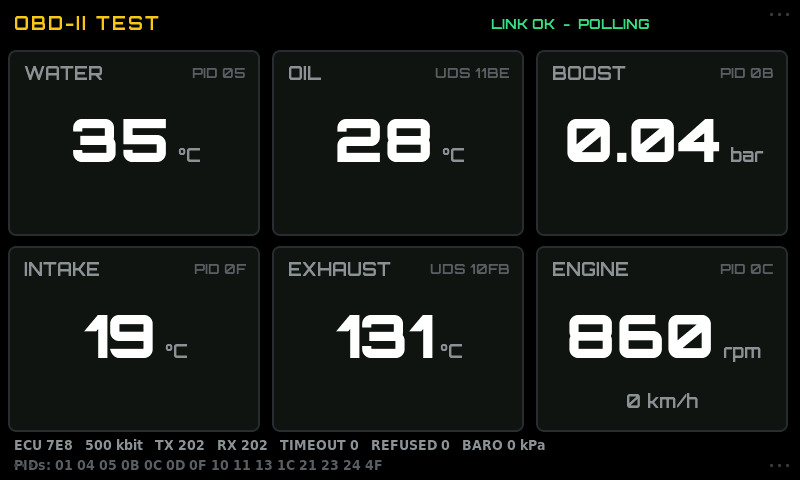
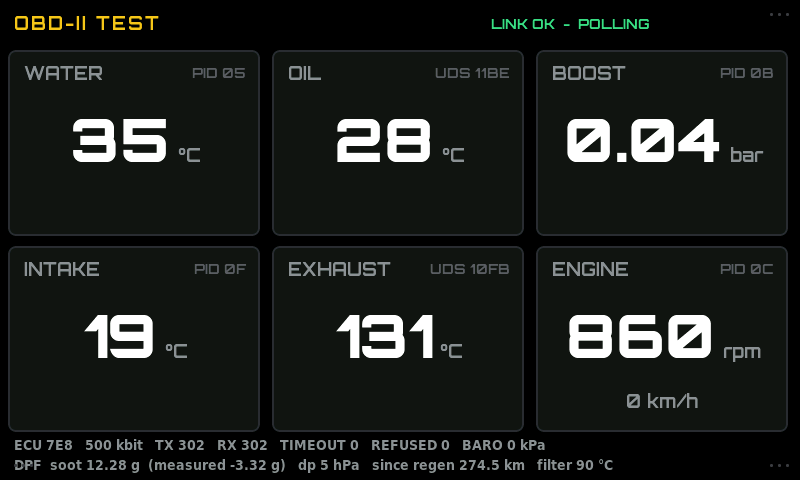
dash: read the T5.1 particulate filter over UDS, v3.6
SNIFF next to VCDS gave the DPF measuring values: 14F5 differential
pressure (hPa), 114F / 114E soot mass calculated / measured (0.01 g),
1156 distance since regeneration (m, 32 bit), 1044 simulated filter
temperature (0.1 K). All matched VCDS. They are polled every 4th round
into g_obd.dpf and shown on the OBD test screen's bottom line.

Claude-Session: https://claude.ai/code/session_018SKN4tJhAPpVCWtvRZgZpD

Changed region(s): [[0.0312, 0.9375, 0.75, 1.0]]

diff --git a/dash/notstock-dash-7inch/main/obd2.c b/dash/notstock-dash-7inch/main/obd2.c
@@ -19,6 +19,7 @@ bool obd_send(uint32_t id, const uint8_t d[8]);
 #define GIVE_UP_TIMEOUTS   6        /* in a row, before NO_ECU */
 #define BARO_EVERY         40       /* baro changes slowly: every 40th poll */
 #define UDS_GIVE_UP        3        /* unanswered UDS reads before REFUSED */
+#define DPF_EVERY          4        /* DPF values: every 4th round */
 
 volatile obd_status_t g_obd;
 
@@ -39,12 +40,23 @@ static const uint16_t WANT[] = {
     UDS(OBD_UDS_EGT),
     0x0D,   /* speed */
     0x33,   /* barometric pressure (only every BARO_EVERY) */
+    UDS(OBD_UDS_DPF_SOOT),      /* the DPF ones only every DPF_EVERY */
+    UDS(OBD_UDS_DPF_DP),
+    UDS(OBD_UDS_DPF_SOOT_MEAS),
+    UDS(OBD_UDS_DPF_DIST),
+    UDS(OBD_UDS_DPF_TEMP),
 };
 
 const uint16_t obd_uds_did[OBD_UDS_N] = {
     [OBD_UDS_OIL] = 0x11BE,
     [OBD_UDS_EGT] = 0x10FB,
+    [OBD_UDS_DPF_DP] = 0x14F5,
+    [OBD_UDS_DPF_SOOT] = 0x114F,
+    [OBD_UDS_DPF_SOOT_MEAS] = 0x114E,
+    [OBD_UDS_DPF_DIST] = 0x1156,
+    [OBD_UDS_DPF_TEMP] = 0x1044,
 };
+/* the mode 01 PID a value stands in for, 0: none, always read over UDS */
 static const uint8_t UDS_PID[OBD_UDS_N] = {
     [OBD_UDS_OIL] = 0x5C,
     [OBD_UDS_EGT] = 0x78,
@@ -80,7 +92,8 @@ bool obd_supported(uint8_t pid)
 
 bool obd_uds_used(int i)
 {
-    return g_obd.state == OBD_POLLING && !obd_supported(UDS_PID[i]) &&
+    return g_obd.state == OBD_POLLING &&
+           (UDS_PID[i] == 0 || !obd_supported(UDS_PID[i])) &&
            g_obd.uds[i] != UDS_REFUSED;
 }
 
@@ -90,6 +103,8 @@ void obd_reset(void)
     memset(&z, 0, sizeof z);
     z.state = OBD_SCANNING;
     for (int i = 0; i < 4; i++) z.egt[i] = NAN;
+    z.dpf.dp_hpa = z.dpf.soot_g = z.dpf.soot_meas_g = NAN;
+    z.dpf.dist_km = z.dpf.temp_c = NAN;
     memcpy((void *)&g_obd, &z, sizeof z);
     s_deadline = 0;
     s_next = 0;
@@ -137,7 +152,11 @@ static void request_uds(uint32_t id, int i, int64_t now)
 
 static bool want_now(uint16_t w)
 {
-    if (w & 0x100) return obd_uds_used(w & 0xFF);
+    if (w & 0x100) {
+        int i = w & 0xFF;
+        if (UDS_PID[i] == 0 && s_polls % DPF_EVERY) return false;
+        return obd_uds_used(i);
+    }
     uint8_t pid = (uint8_t)w;
     if (!obd_supported(pid)) return false;
     if (pid == 0x0B && obd_supported(0x87)) return false;
@@ -167,9 +186,23 @@ static void answer_uds(const uint8_t *d, int n, int64_t now)
     uint16_t did = (uint16_t)(d[1] << 8 | d[2]);
     for (int i = 0; i < OBD_UDS_N; i++) {
         if (did != obd_uds_did[i]) continue;
-        float c = ((d[3] << 8) | d[4]) / 10.0f - 273.15f;   /* 0.1 K */
-        if (i == OBD_UDS_OIL) g_dash.oilt = c;
-        else                  g_dash.egt = c;
+        uint16_t u = (uint16_t)((d[3] << 8) | d[4]);
+        float kelvin = u / 10.0f - 273.15f;              /* 0.1 K */
+        switch (i) {
+        case OBD_UDS_OIL:       g_dash.oilt = kelvin; break;
+        case OBD_UDS_EGT:       g_dash.egt = kelvin; break;
+        case OBD_UDS_DPF_TEMP:  g_obd.dpf.temp_c = kelvin; break;
+        case OBD_UDS_DPF_DP:    g_obd.dpf.dp_hpa = (int16_t)u; break;
+        case OBD_UDS_DPF_SOOT:  g_obd.dpf.soot_g = (int16_t)u / 100.0f; break;
+        case OBD_UDS_DPF_SOOT_MEAS:
+            g_obd.dpf.soot_meas_g = (int16_t)u / 100.0f;
+            break;
+        case OBD_UDS_DPF_DIST:
+            if (n < 7) continue;
+            g_obd.dpf.dist_km = (((uint32_t)d[3] << 24) | ((uint32_t)d[4] << 16) |
+                                 ((uint32_t)d[5] << 8) | d[6]) / 1000.0f;
+            break;
+        }
         g_obd.uds[i] = UDS_OK;
         s_uds_miss[i] = 0;
         if (i == s_pending_uds) answered(now);

diff --git a/dash/notstock-dash-7inch/main/obd2.h b/dash/notstock-dash-7inch/main/obd2.h
@@ -14,7 +14,13 @@
  * "read data by identifier" (22 DID -> 62 DID data), same request and answer
  * IDs. The DIDs were found with SNIFF while VCDS read them from a T5.1 CAAC
  * (EDC17): 11BE engine oil temperature (IDE00196), 10FB exhaust gas
- * temperature sensor 1 (IDE02229), both unsigned 16 bit, 0.1 K.
+ * temperature sensor 1 (IDE02229), both unsigned 16 bit, 0.1 K. The diesel
+ * particulate filter, polled every DPF_EVERY-th round since it moves slowly:
+ *   14F5  differential pressure        IDE00427  signed 16 bit, 1 hPa
+ *   114F  soot mass, calculated        IDE00434  signed 16 bit, 0.01 g
+ *   114E  soot mass, measured          IDE00435  signed 16 bit, 0.01 g
+ *   1156  distance since regeneration  IDE00436  unsigned 32 bit, 1 m
+ *   1044  simulated filter surface temperature  IDE04653  16 bit, 0.1 K
  *
  * Decoded values go into g_dash like the rusEFI decoder's, so the LOG screen
  * and the link state work unchanged.
@@ -36,7 +42,9 @@ typedef enum {
 
 /* VW measuring values read with UDS 22, only when the matching mode 01 PID
  * (5C oil, 78 EGT) is missing */
-enum { OBD_UDS_OIL, OBD_UDS_EGT, OBD_UDS_N };
+enum { OBD_UDS_OIL, OBD_UDS_EGT,
+       OBD_UDS_DPF_DP, OBD_UDS_DPF_SOOT, OBD_UDS_DPF_SOOT_MEAS,
+       OBD_UDS_DPF_DIST, OBD_UDS_DPF_TEMP, OBD_UDS_N };
 enum { UDS_UNKNOWN, UDS_OK, UDS_REFUSED };
 extern const uint16_t obd_uds_did[OBD_UDS_N];
 
@@ -49,6 +57,13 @@ typedef struct {
     float    baro_kpa;            /* from PID 33, 0 until read */
     float    egt[4];              /* PID 78 sensors, NAN when absent */
     uint8_t  uds[OBD_UDS_N];      /* UDS_*, per VW measuring value */
+    struct {                      /* particulate filter, NAN until read */
+        float dp_hpa;             /* differential pressure */
+        float soot_g;             /* soot mass, calculated */
+        float soot_meas_g;        /* soot mass, measured */
+        float dist_km;            /* since the last regeneration */
+        float temp_c;             /* simulated surface temperature */
+    } dpf;
 } obd_status_t;
 
 extern volatile obd_status_t g_obd;

diff --git a/dash/notstock-dash-7inch/main/ui_theme_obd.c b/dash/notstock-dash-7inch/main/ui_theme_obd.c
@@ -106,7 +106,7 @@ static lv_obj_t *build(void)
 
     stats_lbl = ui_label(scr, &dash_lbl_13, C_GREY, "", 14, 438, 772,
                          LV_TEXT_ALIGN_LEFT);
-    pids_lbl = ui_label(scr, &dash_lbl_13, C_DIM, "", 14, 458, 640,
+    pids_lbl = ui_label(scr, &dash_lbl_13, C_DIM, "", 14, 458, 772,
                         LV_TEXT_ALIGN_LEFT);
     lv_label_set_long_mode(pids_lbl, LV_LABEL_LONG_CLIP);
     lv_obj_set_height(pids_lbl, 18);
@@ -199,6 +199,31 @@ static void update(const dash_data_t *d, int link)
                  (unsigned long)g_obd.timeouts, (unsigned long)g_obd.negative,
                  g_obd.baro_kpa);
         ui_text(stats_lbl, buf);
+
+        /* once the particulate filter answers, its line replaces the PID
+         * list: that one has done its job when the link came up */
+        bool dpf = false;
+        for (int i = OBD_UDS_DPF_DP; i <= OBD_UDS_DPF_TEMP; i++) {
+            dpf |= g_obd.uds[i] == UDS_OK;
+        }
+        if (dpf) {
+            char f[5][16];
+            const float v[5] = { g_obd.dpf.soot_g, g_obd.dpf.soot_meas_g,
+                                 g_obd.dpf.dp_hpa, g_obd.dpf.dist_km,
+                                 g_obd.dpf.temp_c };
+            const char *fm[5] = { "%.2f g", "%.2f g", "%.0f hPa", "%.1f km",
+                                  "%.0f \xC2\xB0" "C" };
+            for (int i = 0; i < 5; i++) {
+                if (isnan(v[i])) snprintf(f[i], sizeof f[i], "--");
+                else             snprintf(f[i], sizeof f[i], fm[i], v[i]);
+            }
+            snprintf(buf, sizeof buf,
+                     "DPF  soot %s  (measured %s)   dp %s   since regen %s   "
+                     "filter %s", f[0], f[1], f[2], f[3], f[4]);
+            ui_text(pids_lbl, buf);
+            lv_obj_set_style_text_color(pids_lbl, C_GREY, 0);
+            return;
+        }
 
         int n = snprintf(buf, sizeof buf, "PIDs:");
         for (int p = 1; p <= 0xA0 && n < (int)sizeof buf - 4; p++) {

diff --git a/dash/notstock-dash-7inch/tools/sim/sim.c b/dash/notstock-dash-7inch/tools/sim/sim.c
@@ -102,8 +102,14 @@ bool obd_send(uint32_t id, const uint8_t d[8])
     }
     if (s_fake_ecu >= 2 && id == 0x7E0 && d[1] == 0x22) {
         uint16_t did = (uint16_t)(d[2] << 8 | d[3]);
-        uint16_t raw = did == 0x11BE ? 0x0BC2 : did == 0x10FB ? 0x0FCB : 0;
-        if (raw && s_fake_ecu == 2) {
+        /* values from the car's own log: oil, EGT, then the DPF */
+        uint16_t raw = did == 0x11BE ? 0x0BC2 : did == 0x10FB ? 0x0FCB :
+                       did == 0x14F5 ? 0x0005 : did == 0x114F ? 0x04CC :
+                       did == 0x114E ? 0xFEB4 : did == 0x1044 ? 0x0E34 : 0;
+        if (did == 0x1156 && s_fake_ecu == 2) {
+            const uint8_t p[] = { 0x62, 0x11, 0x56, 0x00, 0x04, 0x30, 0x23 };
+            sf(0x7E8, 7, p);
+        } else if (raw && s_fake_ecu == 2) {
             const uint8_t p[] = { 0x62, d[2], d[3], raw >> 8, raw & 0xFF };
             sf(0x7E8, 5, p);
         } else {

diff --git a/dash/notstock-dash-7inch/main/ui_menu.h b/dash/notstock-dash-7inch/main/ui_menu.h
@@ -4,7 +4,7 @@
 /* Bump on every flashed build. Shown bottom right of the settings screen next
  * to the build date, so a panel in the car can be identified without a
  * laptop. */
-#define DASH_VERSION "3.5"
+#define DASH_VERSION "3.6"
 
 void ui_menu_create(void);
 void ui_menu_refresh(void);

diff --git a/dash/notstock-dash-7inch/README.md b/dash/notstock-dash-7inch/README.md
@@ -82,6 +82,20 @@ the engine ECU, UDS service 22, both unsigned 16 bit in 0.1 K:
 | IDE00196 Engine oil temperature | 11BE | 0x0BC6 = 3014 -> 28.2 degC (VCDS 28.3) |
 | IDE02229 Exhaust gas temperature sensor 1 | 10FB | 0x0FE1 = 4065 -> 133.4 degC, rising at idle |
 
+The particulate filter, found the same way (VCDS 01, Advanced Measuring
+Values), polled every 4th round since it moves slowly:
+
+| VCDS | DID | scaling | log sample |
+| --- | --- | --- | --- |
+| IDE00427 DPF differential pressure | 14F5 | signed 16 bit, 1 hPa | 0x0005 -> 5 hPa (VCDS 5) |
+| IDE00434 soot mass, calculated | 114F | signed 16 bit, 0.01 g | 0x04CC -> 12.28 g (VCDS 12.30) |
+| IDE00435 soot mass, measured | 114E | signed 16 bit, 0.01 g | 0xFEB4 -> -3.32 g (VCDS -3.32) |
+| IDE00436 distance since regeneration | 1156 | unsigned 32 bit, 1 m | 0x00043023 -> 274.467 km (VCDS 274467 m) |
+| IDE04653 simulated DPF surface temperature | 1044 | 16 bit, 0.1 K | 0x0E34 -> 90.5 degC (VCDS 91.5, a little later) |
+
+Once they answer, the bottom line of the test screen shows them instead of
+the PID list.
+
 The dash polls them in the same round robin as the PIDs whenever the PID is
 missing; the tile then says `UDS 11BE` / `UDS 10FB` instead of the PID. An
 ECU that refuses a DID (7F 22) or ignores it three times in a row gets the

diff --git a/dash/notstock-dash-7inch/HANDOVER.md b/dash/notstock-dash-7inch/HANDOVER.md
@@ -235,7 +235,9 @@ to the console (`SNF ...`) and tabulates UDS 0x62 answers by ECU and DID
 (`sniff.c`, `ui_theme_sniff.c`). The DIDs came out as 11BE (oil) and
 10FB (EGT 1), 0.1 K; `obd2.c` polls them with 22 when PIDs 5C / 78 are
 missing (WANT entries with bit 8 set are UDS). `tools/sim` ecu=2 is the T5.1
-as it answered, ecu=3 the same refusing the DIDs.
+as it answered, ecu=3 the same refusing the DIDs. The DPF DIDs (14F5, 114F,
+114E, 1156, 1044, table in README) have no PID behind them and are polled
+every DPF_EVERY-th round; values land in `g_obd.dpf`.
 
 **Every limit treats 0 as off.** The low-pressure limits and their arming
 logic went with the oil and fuel pressure tiles in v2.0; the decoder still
